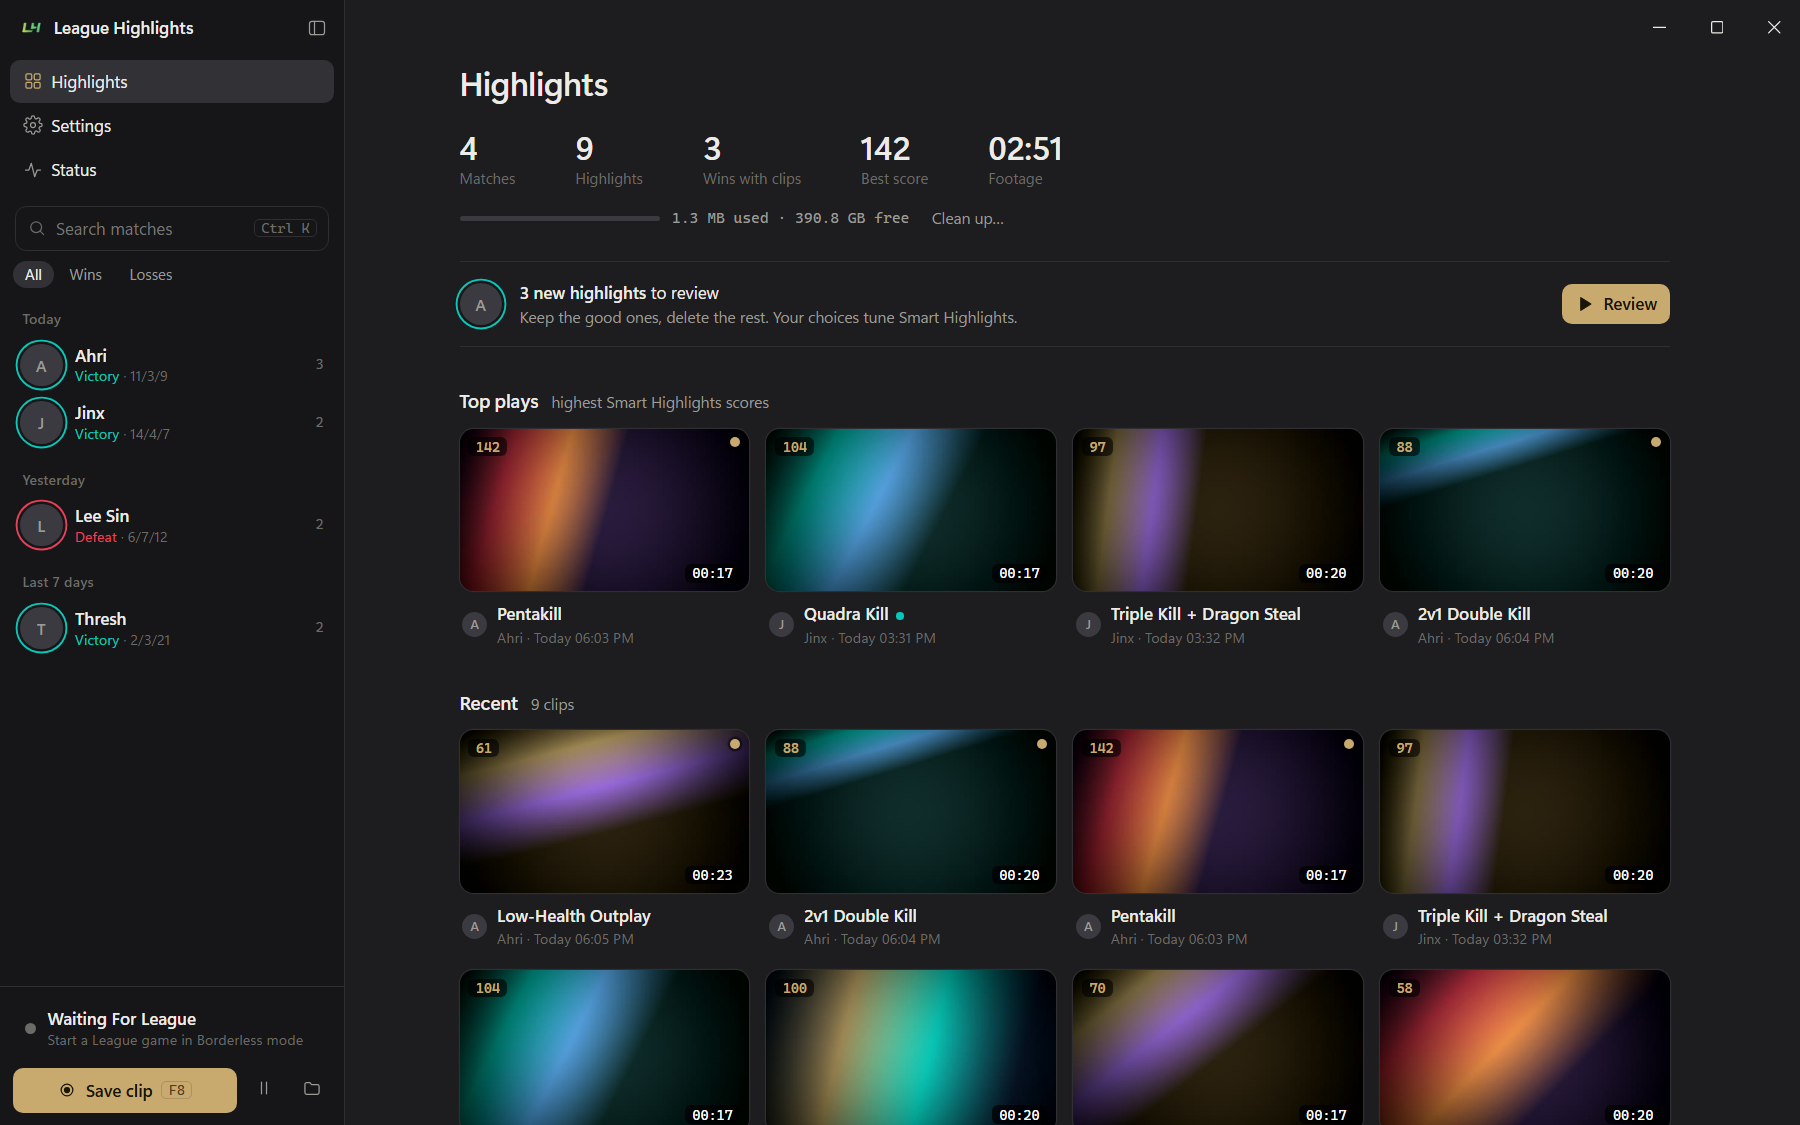
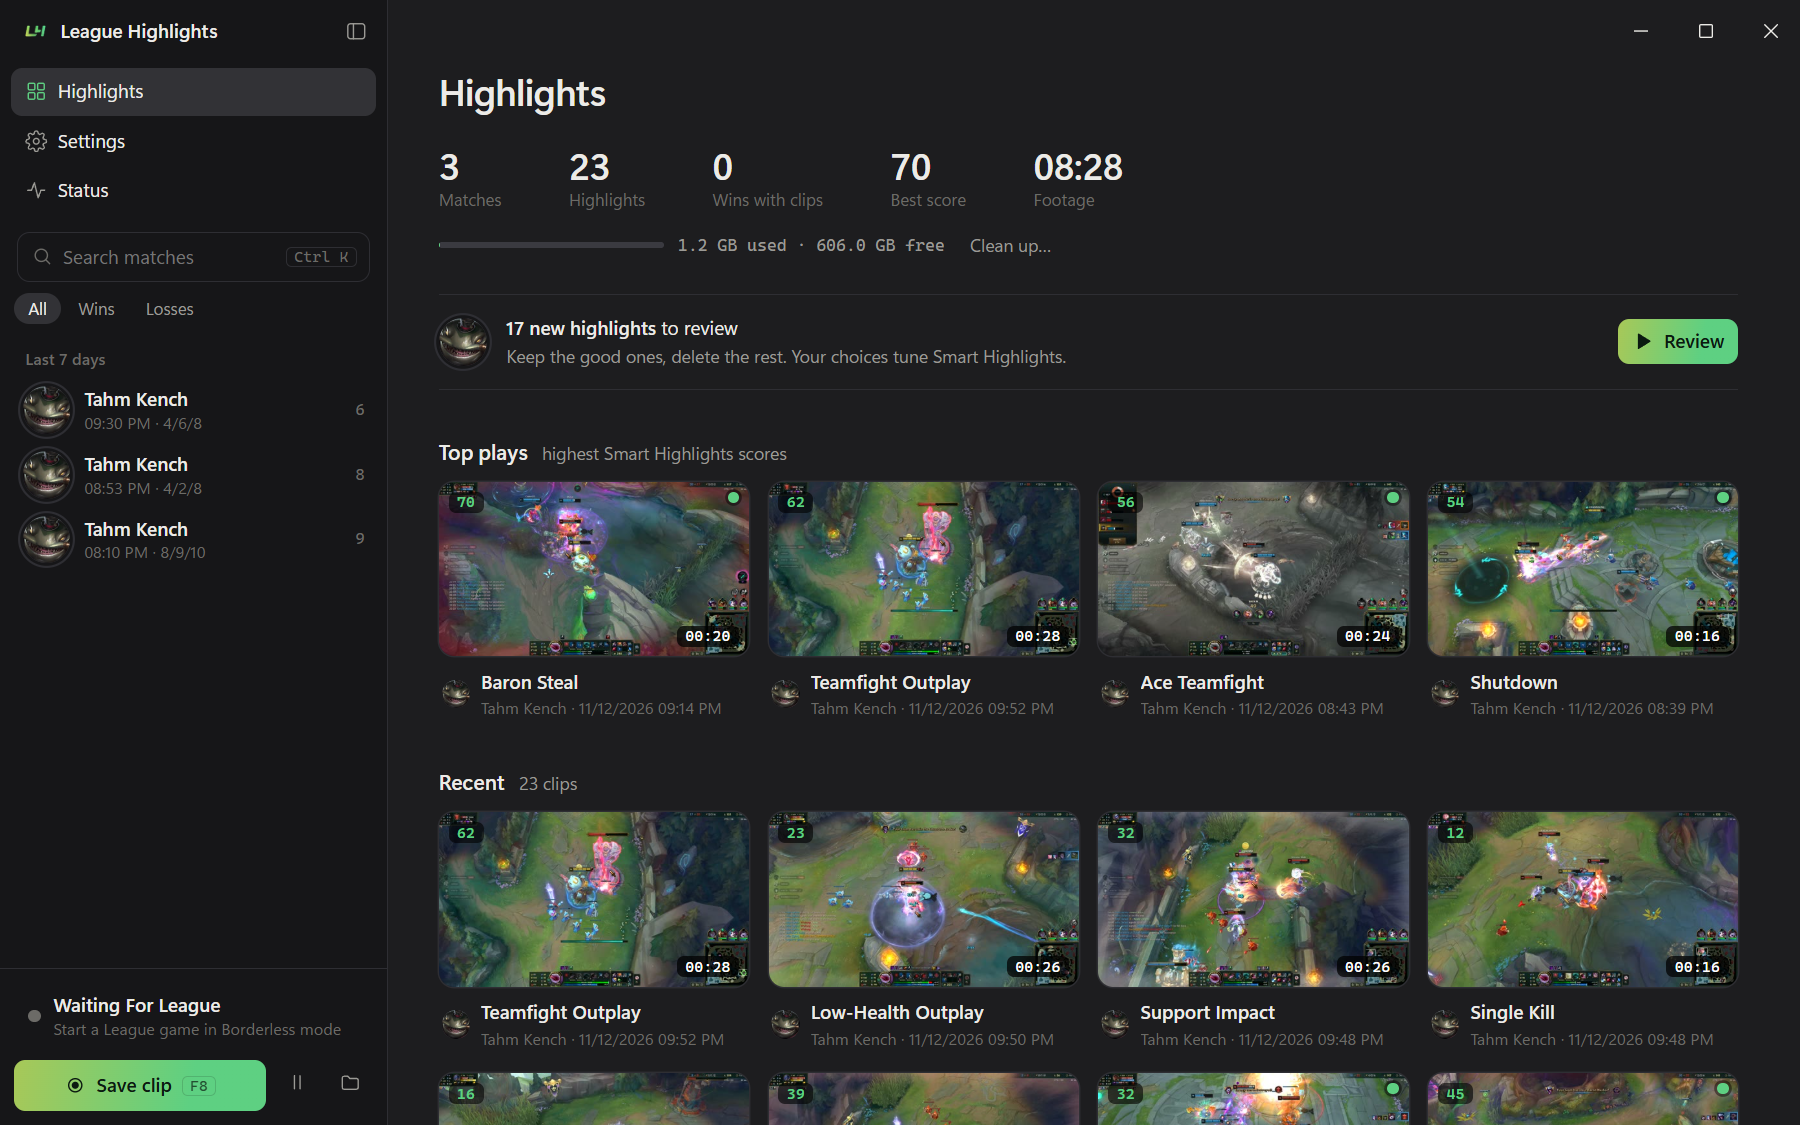
Screenshots with the green accent from real matches

diff --git a/DESIGN.md b/DESIGN.md
@@ -15,9 +15,6 @@ has the Qt stylesheet and painted widgets.
 
 ![Settings view](images/settings.png)
 
-<sub>The screenshots show an earlier gold accent. The layout is the same; the
-current accent is the green in the tokens below.</sub>
-
 ## The idea in five rules
 
 1. **Flat, not boxed.** Content sits directly on the page background. Rows are
